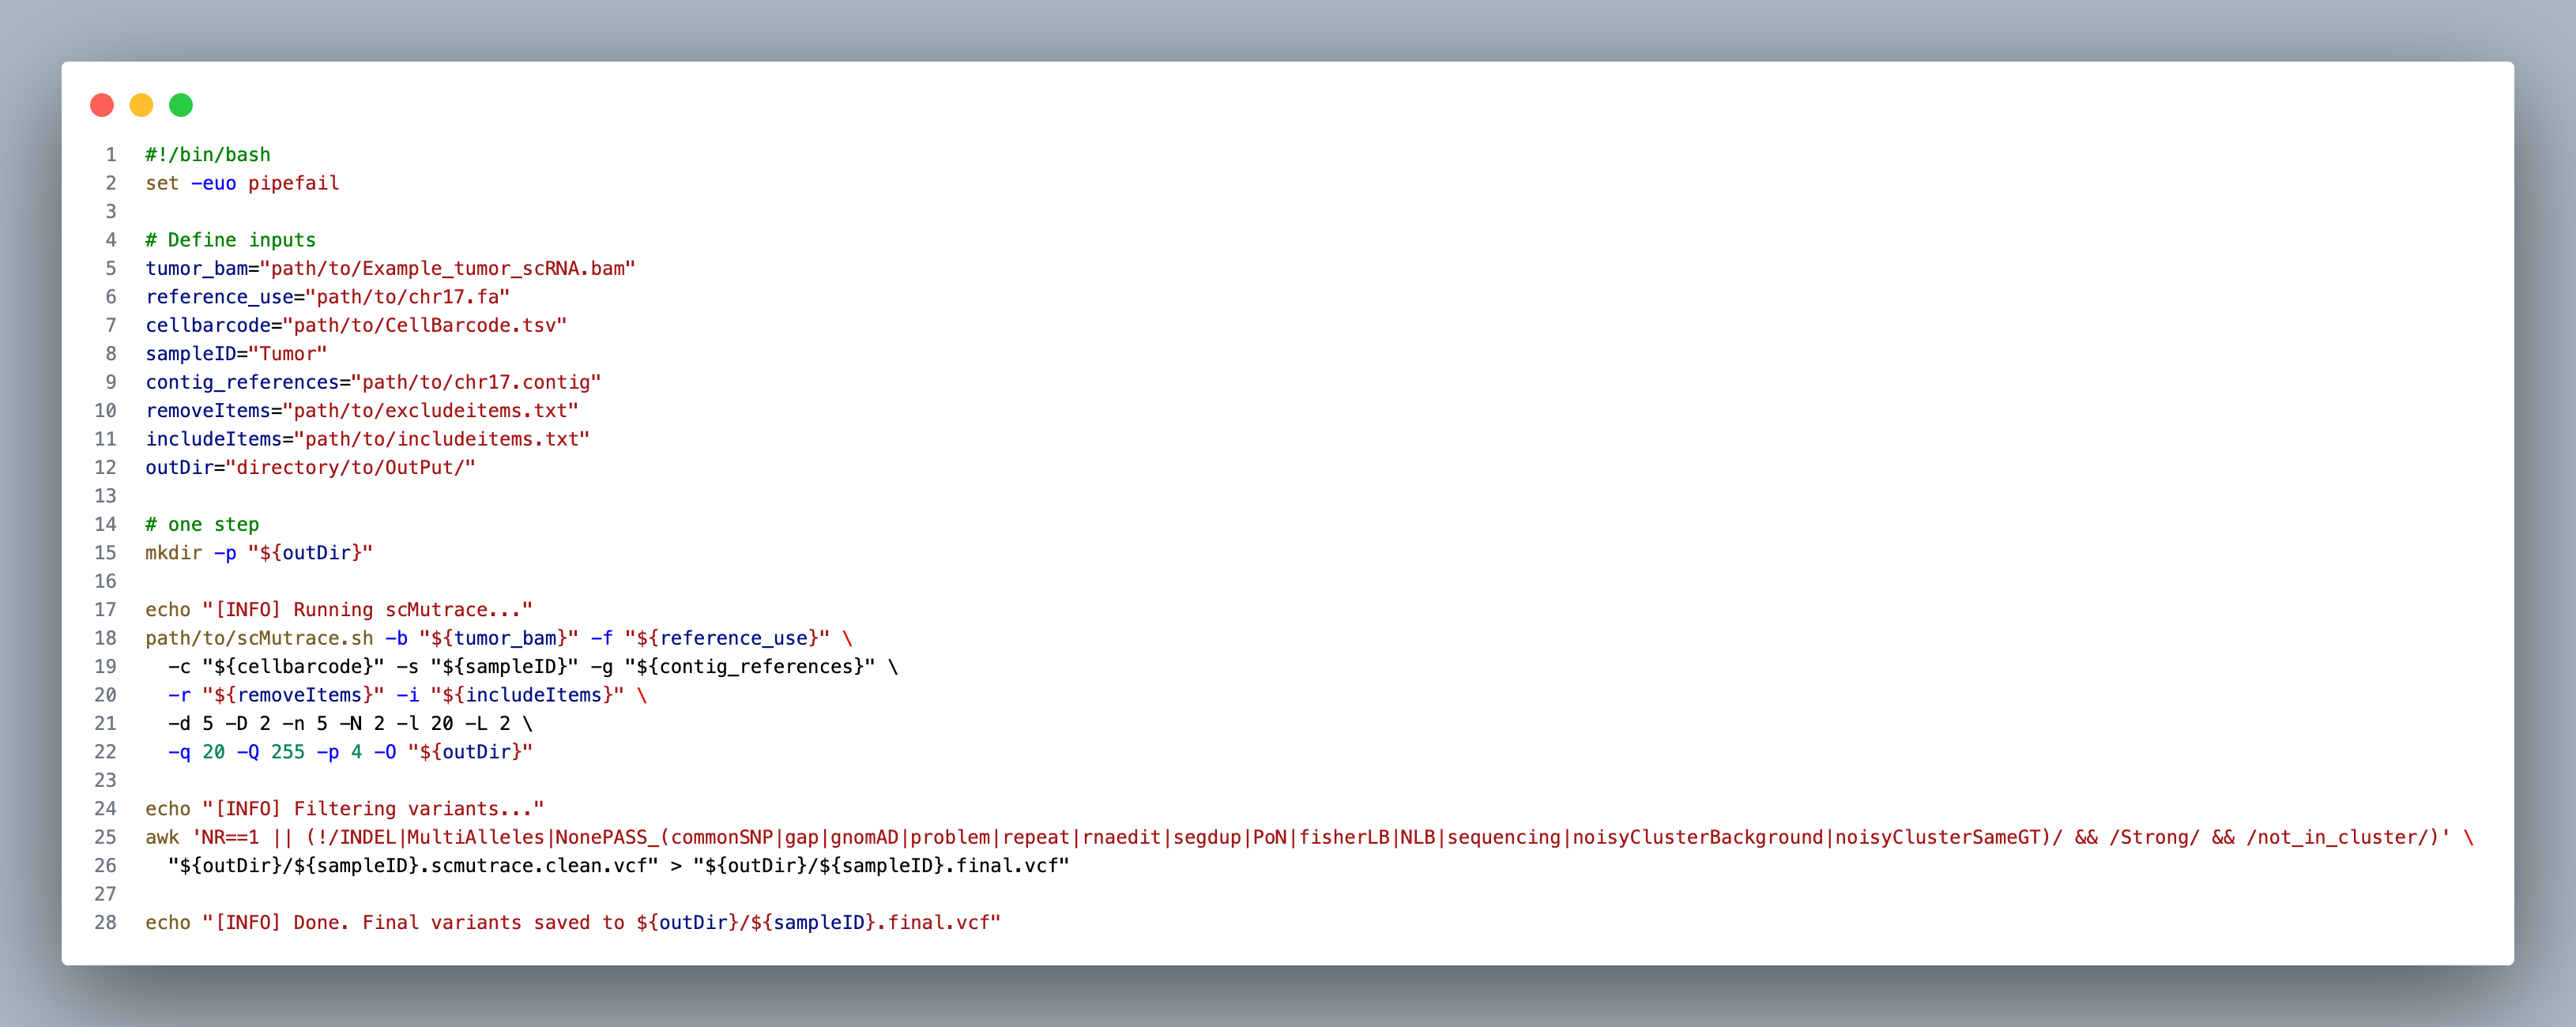
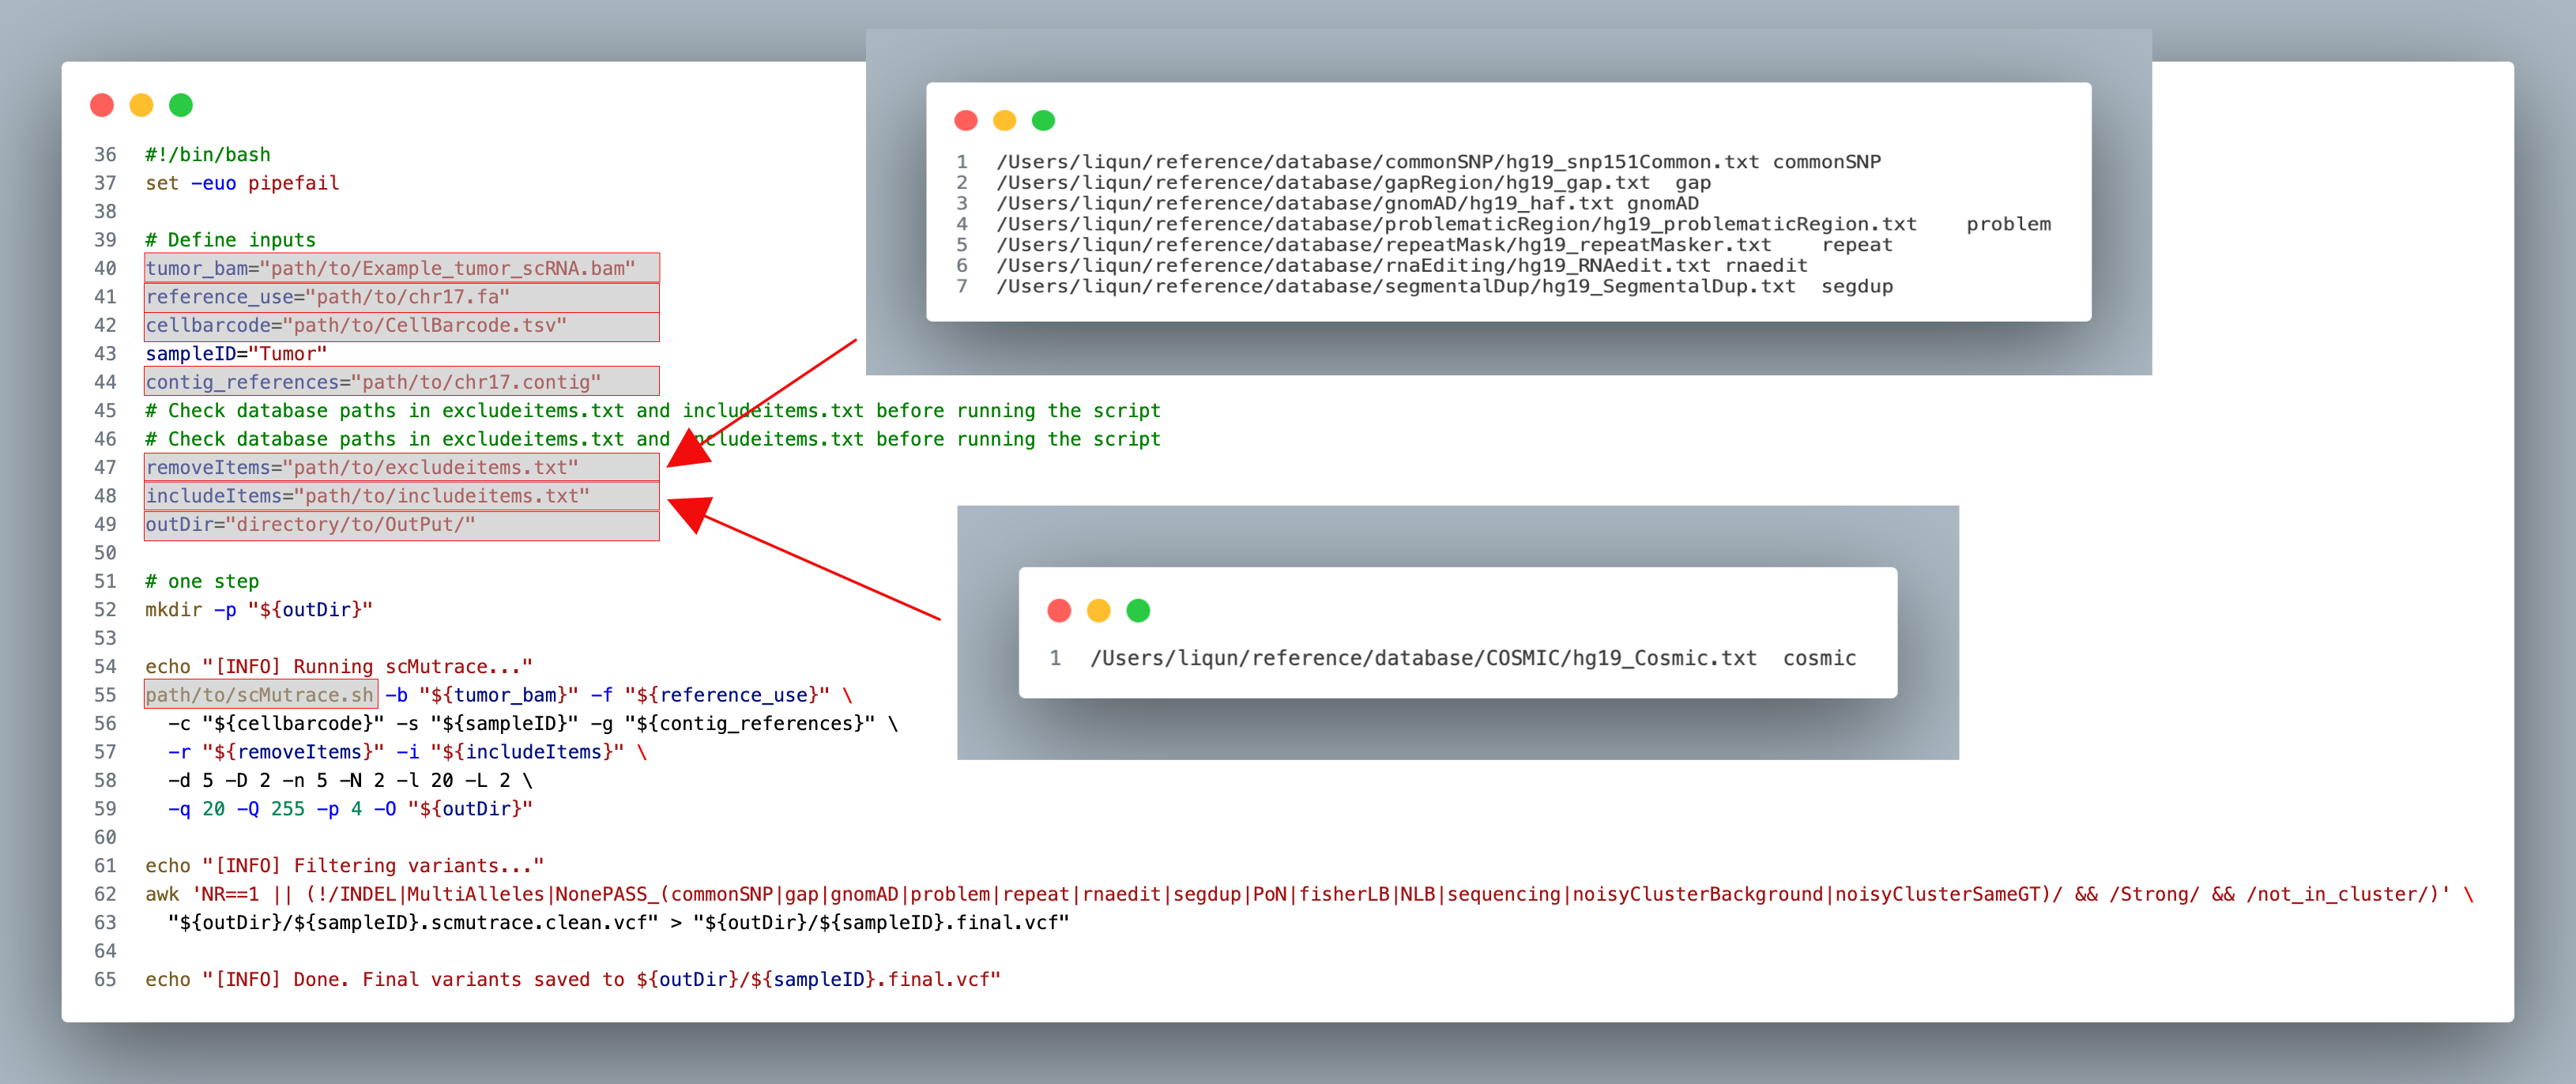
update readme for highlight path replacing

diff --git a/QuickStart/Example1/README.md b/QuickStart/Example1/README.md
@@ -30,7 +30,9 @@ https://github.com/QunATCG/scMutrace#installation
 # Activate conda environment if needed
 conda activate scMutrace
 ```
+You must **replace the paths below with your own local paths** (shown here as examples and highlighted for clarity)
 
+![scMutrace code](../../Figures/Example1/Example1_code.png)
 
 ```bash
 #!/bin/bash
@@ -64,7 +66,8 @@ awk 'NR==1 || (!/INDEL|MultiAlleles|NonePASS_(commonSNP|gap|gnomAD|problem|repea
 
 echo "[INFO] Done. Final variants saved to ${outDir}/${sampleID}.final.vcf"
 ```
-![scMutrace code](../../Figures/Example1/Example1_code.png)
+
+
 
 > awk is a powerful Unix command-line tool—best thought of as a mini programming language—designed for text processing and data extraction. It splits each line into fields using a delimiter (default is any whitespace) and lets you define patterns to match and actions to execute when those patterns are met:
 [sed, awk, vmstat and nestat commands](https://www.youtube.com/watch?v=4hJorSKg9E0)